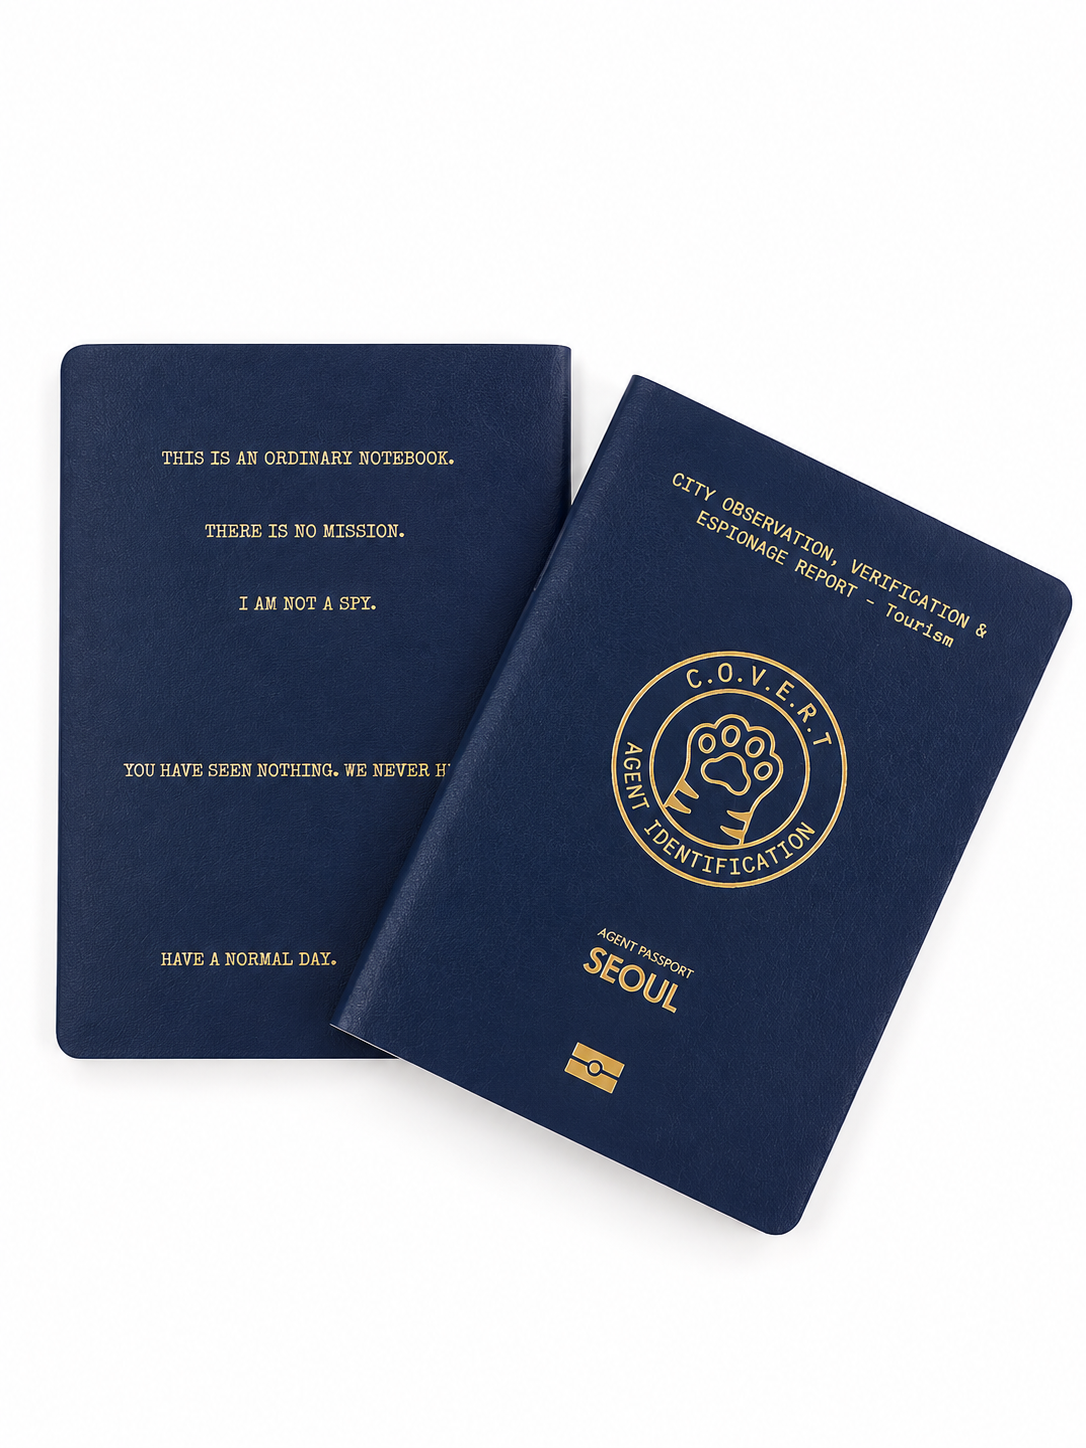
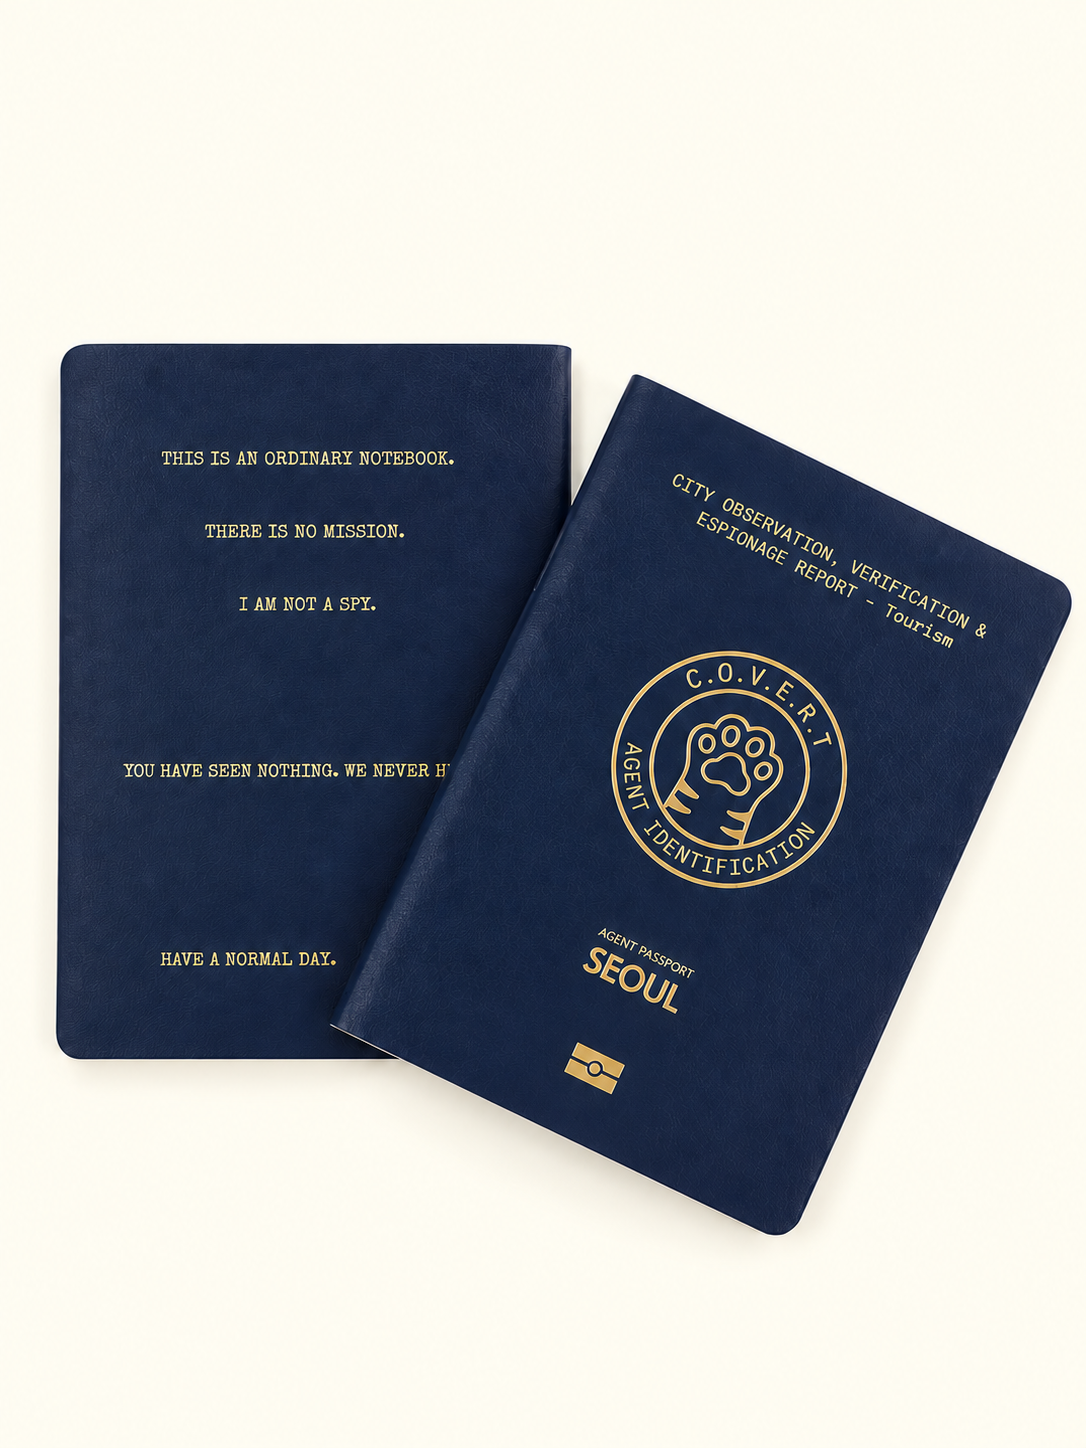
Replace passport and keyring photos with supplied background-matched images

diff --git a/covert/jp/kit/index.html b/covert/jp/kit/index.html
@@ -284,7 +284,7 @@
           <i>02</i><b>パスポート型ミッションブック</b><span class="leader" aria-hidden="true"></span><em>× 1</em>
             <div class="pk-body">
               <span class="pk-shot photo-window" data-photo="03" style="--crop-ratio:1.1399776036;--photo-left:-5.40275049%;--photo-top:-38.40985442%;--photo-width:106.67976424%;--photo-height:162.15005599%">
-                <img src="../../assets/pack/passport.webp?v=2474da98" width="1086" height="1448"
+                <img src="../../assets/pack/passport.webp?v=18188ef4" width="1086" height="1448"
                  loading="lazy" decoding="async" alt="マットな金箔のエンブレムが入った濃紺のパスポート型ミッションブック二冊">
               </span>
               <p>レザーテックス合紙の表紙に、マットな金箔でエンブレムを押した上質な意匠です。本物の旅券と同じ判型で作りました。任務をどうぞ無事に。</p>
@@ -324,7 +324,7 @@
           <i>06</i><b>BUMMYキーリング</b><span class="leader" aria-hidden="true"></span><em>× 1</em>
             <div class="pk-body">
               <span class="pk-shot photo-window" data-photo="07" style="--crop-ratio:1.2736943907;--photo-left:-8.95975702%;--photo-top:-2.99806576%;--photo-width:109.94684890%;--photo-height:105.02901354%">
-                <img src="../../assets/product/keyrings.webp?v=85f7eb81" width="1448" height="1086"
+                <img src="../../assets/product/keyrings.webp?v=f007b793" width="1448" height="1086"
                  loading="lazy" decoding="async" alt="それぞれ違う服を着たBUMMYキーリング十五種と銀色の包装袋">
               </span>
               <p>変装した十五種の BUMMY キーリングのうちひとつが、あなたのパートナーとして届きます。</p>

diff --git a/covert/kr/kit/index.html b/covert/kr/kit/index.html
@@ -284,7 +284,7 @@
           <i>02</i><b>여권형 미션북</b><span class="leader" aria-hidden="true"></span><em>× 1</em>
             <div class="pk-body">
               <span class="pk-shot photo-window" data-photo="03" style="--crop-ratio:1.1399776036;--photo-left:-5.40275049%;--photo-top:-38.40985442%;--photo-width:106.67976424%;--photo-height:162.15005599%">
-                <img src="../../assets/pack/passport.webp?v=2474da98" width="1086" height="1448"
+                <img src="../../assets/pack/passport.webp?v=18188ef4" width="1086" height="1448"
                  loading="lazy" decoding="async" alt="무광 금박 엠블럼이 찍힌 딥네이비 여권형 미션북 두 권">
               </span>
               <p>레더텍스 합지 표지에 무광 금박으로 엠블럼을 찍어 고급스러운 디자인을 만들었습니다. 실제 여권 사이즈에 맞춰서 제작하였습니다. 임무를 잘 수행해 주세요.</p>
@@ -324,7 +324,7 @@
           <i>06</i><b>범이 키링</b><span class="leader" aria-hidden="true"></span><em>× 1</em>
             <div class="pk-body">
               <span class="pk-shot photo-window" data-photo="07" style="--crop-ratio:1.2736943907;--photo-left:-8.95975702%;--photo-top:-2.99806576%;--photo-width:109.94684890%;--photo-height:105.02901354%">
-                <img src="../../assets/product/keyrings.webp?v=85f7eb81" width="1448" height="1086"
+                <img src="../../assets/product/keyrings.webp?v=f007b793" width="1448" height="1086"
                  loading="lazy" decoding="async" alt="저마다 다른 옷을 입은 범이 키링 열다섯 종과 은색 포장 봉지">
               </span>
               <p>열다섯 개의 변장한 범이의 키링 중에 하나가 당신의 파트너로 찾아갑니다.</p>

diff --git a/covert/kit/index.html b/covert/kit/index.html
@@ -284,7 +284,7 @@
           <i>02</i><b>Passport mission book</b><span class="leader" aria-hidden="true"></span><em>× 1</em>
             <div class="pk-body">
               <span class="pk-shot photo-window" data-photo="03" style="--crop-ratio:1.1399776036;--photo-left:-5.40275049%;--photo-top:-38.40985442%;--photo-width:106.67976424%;--photo-height:162.15005599%">
-                <img src="../assets/pack/passport.webp?v=2474da98" width="1086" height="1448"
+                <img src="../assets/pack/passport.webp?v=18188ef4" width="1086" height="1448"
                  loading="lazy" decoding="async" alt="Two deep-navy passport mission books with the emblem in matte gold foil">
               </span>
               <p>The emblem is stamped in matte gold foil on a leather-textured laminated cover. It is made to the size of a real passport. Carry out your assignments well.</p>
@@ -324,7 +324,7 @@
           <i>06</i><b>BUMMY keyring</b><span class="leader" aria-hidden="true"></span><em>× 1</em>
             <div class="pk-body">
               <span class="pk-shot photo-window" data-photo="07" style="--crop-ratio:1.2736943907;--photo-left:-8.95975702%;--photo-top:-2.99806576%;--photo-width:109.94684890%;--photo-height:105.02901354%">
-                <img src="../assets/product/keyrings.webp?v=85f7eb81" width="1448" height="1086"
+                <img src="../assets/product/keyrings.webp?v=f007b793" width="1448" height="1086"
                  loading="lazy" decoding="async" alt="Fifteen BUMMY keyrings, each in a different outfit, and a silver packet">
               </span>
               <p>One of the fifteen BUMMY keyrings in disguise comes to you as your partner.</p>

diff --git a/covert/cn/kit/index.html b/covert/cn/kit/index.html
@@ -284,7 +284,7 @@
           <i>02</i><b>护照型任务手册</b><span class="leader" aria-hidden="true"></span><em>× 1</em>
             <div class="pk-body">
               <span class="pk-shot photo-window" data-photo="03" style="--crop-ratio:1.1399776036;--photo-left:-5.40275049%;--photo-top:-38.40985442%;--photo-width:106.67976424%;--photo-height:162.15005599%">
-                <img src="../../assets/pack/passport.webp?v=2474da98" width="1086" height="1448"
+                <img src="../../assets/pack/passport.webp?v=18188ef4" width="1086" height="1448"
                  loading="lazy" decoding="async" alt="压有哑光烫金徽章的深蓝色护照型任务手册两本">
               </span>
               <p>皮纹合纸封面以哑光烫金压印徽章，做工考究。尺寸与真护照一致。请顺利完成任务。</p>
@@ -324,7 +324,7 @@
           <i>06</i><b>BUMMY钥匙扣</b><span class="leader" aria-hidden="true"></span><em>× 1</em>
             <div class="pk-body">
               <span class="pk-shot photo-window" data-photo="07" style="--crop-ratio:1.2736943907;--photo-left:-8.95975702%;--photo-top:-2.99806576%;--photo-width:109.94684890%;--photo-height:105.02901354%">
-                <img src="../../assets/product/keyrings.webp?v=85f7eb81" width="1448" height="1086"
+                <img src="../../assets/product/keyrings.webp?v=f007b793" width="1448" height="1086"
                  loading="lazy" decoding="async" alt="十五种身着不同服装的BUMMY钥匙扣和银色包装袋">
               </span>
               <p>十五款乔装的 BUMMY 钥匙扣中，会有一个作为你的搭档来到身边。</p>

diff --git a/covert/jp/index.html b/covert/jp/index.html
@@ -456,7 +456,7 @@ html[data-seen] #op-opening .skip-btn{display:none}
        캐릭터 화자가 있는 곳은 0곳이었다 -->
   <section class="chapter">
     <div class="shot rv">
-      <img src="../assets/product/keyrings.webp?v=85f7eb81" width="1448" height="1086"
+      <img src="../assets/product/keyrings.webp?v=f007b793" width="1448" height="1086"
            loading="lazy" decoding="async"
            alt="それぞれ違う服を着たBUMMYキーリング十五種">
     </div>

diff --git a/covert/kr/index.html b/covert/kr/index.html
@@ -456,7 +456,7 @@ html[data-seen] #op-opening .skip-btn{display:none}
        캐릭터 화자가 있는 곳은 0곳이었다 -->
   <section class="chapter">
     <div class="shot rv">
-      <img src="../assets/product/keyrings.webp?v=85f7eb81" width="1448" height="1086"
+      <img src="../assets/product/keyrings.webp?v=f007b793" width="1448" height="1086"
            loading="lazy" decoding="async"
            alt="저마다 다른 옷을 입은 범이 키링 열다섯 종">
     </div>

diff --git a/covert/cn/index.html b/covert/cn/index.html
@@ -456,7 +456,7 @@ html[data-seen] #op-opening .skip-btn{display:none}
        캐릭터 화자가 있는 곳은 0곳이었다 -->
   <section class="chapter">
     <div class="shot rv">
-      <img src="../assets/product/keyrings.webp?v=85f7eb81" width="1448" height="1086"
+      <img src="../assets/product/keyrings.webp?v=f007b793" width="1448" height="1086"
            loading="lazy" decoding="async"
            alt="十五种身着不同服装的BUMMY钥匙扣">
     </div>

diff --git a/covert/index.html b/covert/index.html
@@ -456,7 +456,7 @@ html[data-seen] #op-opening .skip-btn{display:none}
        캐릭터 화자가 있는 곳은 0곳이었다 -->
   <section class="chapter">
     <div class="shot rv">
-      <img src="assets/product/keyrings.webp?v=85f7eb81" width="1448" height="1086"
+      <img src="assets/product/keyrings.webp?v=f007b793" width="1448" height="1086"
            loading="lazy" decoding="async"
            alt="Fifteen BUMMY keyrings, each in a different outfit">
     </div>
